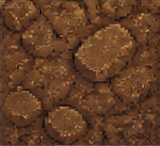
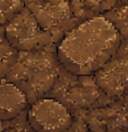
COMMANDO: ground tiles trimmed of neighbour slivers and border lines so they join without seams

diff --git a/contra/tools/build_art.py b/contra/tools/build_art.py
@@ -170,6 +170,35 @@ def solid_square(crop):
     return crop[rows.min():rows.max() + 1, cols.min():cols.max() + 1]
 
 
+def clean_tile(crop, rows=True):
+    """A ground tile cut from a sheet where the tiles touch: the cut can carry a strip of the neighbouring tile and a
+    light border line along its edges, which show as seams when tiles are laid side by side. Edge columns (and rows)
+    whose colour is far from the tile's own middle are cut off — at most a fifth of the tile on each side. Pixels
+    inside are left untouched."""
+    t = solid_square(crop)
+    rgb = t[..., :3].astype(float)
+
+    mid = np.median(rgb[int(rgb.shape[0] * 0.25):int(rgb.shape[0] * 0.75), int(rgb.shape[1] * 0.25):int(rgb.shape[1] * 0.75)].reshape(-1, 3), axis=0)
+    off = np.abs(rgb - mid).mean(2) > 38          # pixels far from the tile's own colour
+
+    def keep(frac, n):                             # frac: share of "far" pixels in each column / row
+        lo, hi = 0, n
+        while lo < n * 0.2 and frac[lo] > 0.45:
+            lo += 1
+        while hi > n * 0.8 and frac[hi - 1] > 0.45:
+            hi -= 1
+        return lo, hi
+    x0, x1 = keep(off.mean(0), t.shape[1])
+    y0, y1 = keep(off.mean(1), t.shape[0])
+    if not rows:                                   # top pieces keep their top edge (stripes, grass, snow)
+        y0 = 0
+    t = t[y0:y1, x0:x1]
+    # then a thin even margin off every side that can touch another tile (slivers the colour test can't see)
+    mx = round(t.shape[1] * (0.1 if rows else 0.06))
+    my = round(t.shape[0] * 0.05) if rows else 0
+    return t[my:t.shape[0] - (my or round(t.shape[0] * 0.03)), mx:t.shape[1] - mx]
+
+
 def build_enemies(a):
     cells = cut_cells(a)
     missing = [k for k in list(range(0, 40)) + [t for t, _ in TILES] if k not in cells]
@@ -197,7 +226,7 @@ def build_enemies(a):
                 manifest['scale'][key] = round(width / img.width, 4)
     for idx, key in TILES:
         if idx in cells:
-            manifest['images'][key] = save(Image.fromarray(solid_square(cells[idx][0])), key)
+            manifest['images'][key] = save(Image.fromarray(clean_tile(cells[idx][0], rows=key.startswith('g_in'))), key)
     print('  enemies, machines, effects, jungle tiles:', len(cells), 'sprites')
 
 
@@ -233,7 +262,7 @@ def build_terrain2(a):
                 print('  terrain2: cell', idx, '(' + name + ', ' + theme + ') is not a full square — skipped')
                 continue
             key = tile_key(name, theme)
-            manifest['images'][key] = save(Image.fromarray(solid_square(crop)), key)
+            manifest['images'][key] = save(Image.fromarray(clean_tile(crop, rows=name.startswith('g_in'))), key)
     for idx, theme in ((10, 'base'), (30, 'snow')):
         if idx in cells:
             manifest['images']['ledge_' + theme] = save(Image.fromarray(cells[idx][0]), 'ledge_' + theme)

diff --git a/CLAUDE.md b/CLAUDE.md
@@ -27,6 +27,7 @@ Two HTML5 games in one project, both Phaser 3.80.1 from CDN with Arcade physics,
 - How to Play is gone. Art waiting: `idle.png` (IN, every row used (`IDLE_SKIP` empty); prompt 14, FRONT view for the menus: one row per agent in `IDLE_ORDER`, cells 1-3 breathing loop, the rest a special move → `idle_<id>` strips with `n` + `loop`; the menus' `figure()` + a 170 ms ticker in ui.js breathe and play the special move every 7-13 s) `ui_icons.png` is IN (prompt 15, 4x4, shapes assigned to the cell their middle is in (`cut_cells`) → `ui_<name>` → `CG.DATA.art.ui`): FIRE/JUMP/DASH touch buttons, pause button, SKILL fallback, every `.coin` (CSS var `--coin-img`), best score trophy, mode card + mode tiles, top tabs, crown/bot/invite on the home screen.
 - Flow (`src/ui.js`), Fortnite style: login (Google) → home = your squad standing on stage (full-body figures cut from each agent's standing frame at boot → `CG.BODIES`; you in the middle, online party members and bots either side, empty slots offer INVITE / + BOT), a tab bar along the top (PLAY, LOCKER, LOCAL CO-OP, SHOP, FRIENDS, HOW TO PLAY, SETTINGS) and a dock with the mode (squad / duel), PLAY and FIND PLAYERS. The agent is chosen ONCE in the LOCKER (the `select` panel, which only lists agents this account owns, saved to localStorage + the party member) and used in every match; there is no per-match select any more. PLAY alone = local game with your bots (duel: vs a bot); with friends in the party the leader's PLAY starts the online match. Bots added while alone (`localBots`) move into the online party when one is made (`CG.UI.takeLocalBots` in `createParty`). LOCAL CO-OP = the join screen, each joined person shown as a figure with ◀ ▶ (A/D, ←/→, D-pad) to change agent, START goes straight into the game. The old squad panel is gone. Only the main player gets the big ability slot. INSTALL APP buttons (`src/pwa.js`, root `sw.js`, manifest start_url/scope `../`). `CG.Player(scene, idx, x, feetY, { agent, name, bot, device, id, owner })`. Device types in `src/input.js`: `kbA`, `kbB`, `kbAll`, `pad`, `touch`, `bot` (`src/bots.js` returns the same input state), `remote` (online teammate), `any` (keyboard + mouse + pad 0 + touch, used online). Ability keys: C/E/Shift/right click, H (kb1), O (kb2), Y/RB, SKILL button.
 - Online (`src/net.js`, `src/online.js`): Google sign-in only (an old anonymous session is signed out), friends, invites, parties (`parties/{pid}`), matchmaking (`CG.Queue`: the longest-waiting party leader gathers parties up to 5, or starts alone after 30 s), matches. The party leader is the HOST: runs enemies/score/lives and writes a JSON snapshot ~10/s to `matches/{mid}/s`; every game moves its own players and writes `matches/{mid}/p/{id}`; non-hosts draw enemies as puppets (`e.puppet`) and send hits/deaths/pick-ups as events (`ev`); heals and lightning go to everyone through `bc`. `scene.isClient` = online but not host. The database rules for all of this are in `contra/FIREBASE.md` — the user must publish them and enable Google sign-in + add `redfire3248.github.io` as an authorized domain. Test online locally with two tabs of `?guest&fakedb` (`src/fakedb.js`, a localStorage + BroadcastChannel stand-in for Firebase); a hidden tab needs `CG.game.loop.step(t)` to run.
+- Ground tiles (terrain2.png, enemies_tiles.png) touch each other in the sheets, so `clean_tile()` in build_art.py trims edge strips that belong to the neighbour and a thin even margin; they are drawn T x T so all join without seams.
 - Art: pixel art drawn in code by `src/art.js` (fallback for everything). Sheets the user made, sliced by `contra/tools/build_art.py` (slice only, never remove backgrounds): `commandos.png` (old painted players, now only a fallback; bullet/flash), `enemies_tiles.png`, `terrain2.png` (painted enemies, tiles, props), `agents.png` (pixel-art agents, 8 rows: Kite and Volt each got one row) + `agents_fix.png` (Kite's second row, Volt's first row; drawn at a different size, so its anims carry a third value = draw-scale) → `agents` sheet + `CG.DATA.art.agents`; `agents_ui.png` (portraits, ability icons, pixel pick-ups that replace the painted ones, HUD hearts, menu icons; the menus use them as `assets/atlas/*.png`); `ability_fx.png` (`fx_storm`, `fx_mend`, `fx_plus`, `fx_dash`, `fx_blink`, `fx_slash`, `fx_dome`, `fx_dome_break`, `fx_arc`, `fx_spark`, `fx_charge`); `backgrounds.png` (9 strips; came back WITHOUT transparency, so only strips with no filled background are used: all three skies, Steel Yard far+near, Frozen Pass near → `CG.DATA.art.backgrounds[theme]`). Keys in `CG.DATA.art.pixel` get the NEAREST filter at boot. Prompts: `contra/PROMPTS.md` (season 2 = pixel art).
 - The game auto-pauses when the tab is hidden (not online). In the hidden Browser pane drive it with `CG.game.loop.step(t)`; inject input through `CG.Touch.s` (or synthetic `KeyboardEvent`s on window).
 
